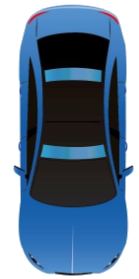
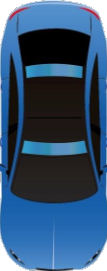
novo formato carro e gameover

diff --git a/main.py b/main.py
@@ -33,7 +33,7 @@ carro4 = pygame.transform.rotate(carro, 90)
 
 # Redimensionar os sprites
 novo_largura_sem, novo_altura_sem = 100, 100
-novo_largura_carro, novo_altura_carro = 50, 93
+novo_largura_carro, novo_altura_carro = 50, 115
 sem1 = pygame.transform.scale(sem1, (novo_largura_sem, novo_altura_sem))
 sem2 = pygame.transform.scale(sem2, (novo_largura_sem, novo_altura_sem))
 sem3 = pygame.transform.scale(sem3, (novo_largura_sem, novo_altura_sem))
@@ -56,11 +56,11 @@ carros = [(carro, carro_inicial_pos), (carro2, carro2_inicial_pos), (carro3, car
 sprites = [(sem1, (200, 150)), (sem2, (100, 450)), (sem3, (500, 150)), (sem4, (400, 450))]
 
 # Controle de tempo para gerar novos carros
-tempo_para_novo_carro = 500
+tempo_para_novo_carro = 3000
 tempo_acumulado = 0
 
 # Velocidade dos carros
-velocidade_carro = 3
+velocidade_carro = 1
 
 # Carregar a imagem do Game Over
 game_over_image = pygame.image.load(os.path.join(assets_folder, "gameover.png")).convert_alpha()
